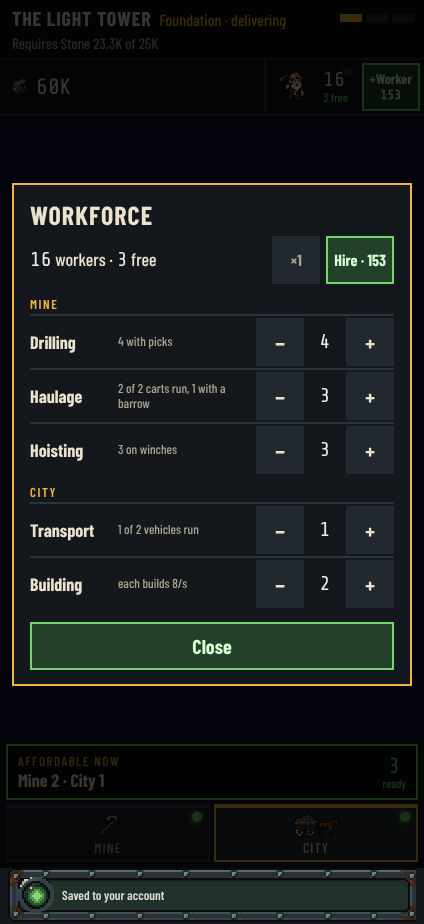
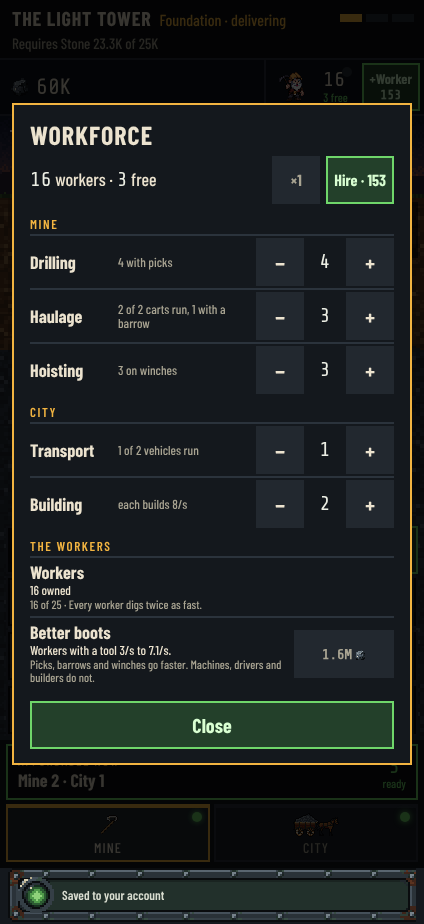
A stage's list: the docs and its audit shot
Claude-Session: https://claude.ai/code/session_011RgeWuqtnTRfrJx9irL8aB

diff --git a/docs/ui-audit.md b/docs/ui-audit.md
@@ -67,14 +67,15 @@ Bars used below:
 
 ## Slice 1's frame (dev preview)
 
-Slice 1's frame and its workforce (#659), the mine (#660) and the city (#662) run beside today's board, in a dev build with `?slice=1` (`npm run play -- --save slice-busy`). `npm run audit:ui` opens today's board and does not shoot them yet; the visual check's frame section (`scripts/visual/frame.mjs`) holds their bars at 424×924 and 424×830: the page never scrolls, every key is at least 48px, no word in the frame is cut, one hire key is in the top row on every site, and nothing says "hands" or "by hand". The shots are from `npm run play` on the `slice-busy` save.
+Slice 1's frame and its workforce (#659), the mine (#660) with a stage's list (#661) and the city (#662) run beside today's board, in a dev build with `?slice=1` (`npm run play -- --save slice-busy`). `npm run audit:ui` opens today's board and does not shoot them yet; the visual check's frame section (`scripts/visual/frame.mjs`) holds their bars at 424×924 and 424×830: the page never scrolls, every key is at least 48px, no word in the frame is cut, one hire key is in the top row on every site, and nothing says "hands" or "by hand". The shots are from `npm run play` on the `slice-busy` save.
 
-| Screen    | 424×924                                           | What it shows                                                                                                                                                                                                                                                                                                                                                                                                                                                                                                                                                                                                                                                                                                                                                                                                                                                                                                                                                                                                                                                                                       |
-| --------- | ------------------------------------------------- | --------------------------------------------------------------------------------------------------------------------------------------------------------------------------------------------------------------------------------------------------------------------------------------------------------------------------------------------------------------------------------------------------------------------------------------------------------------------------------------------------------------------------------------------------------------------------------------------------------------------------------------------------------------------------------------------------------------------------------------------------------------------------------------------------------------------------------------------------------------------------------------------------------------------------------------------------------------------------------------------------------------------------------------------------------------------------------------------------- |
-| Frame     | [shot](ui-audit/slice-frame-busy-424x924.png)     | The order strip (the Light Tower, its step and state, `Requires Stone … of 25K`, three pips), the top row (the stockpile, the count of workers with the free ones, the hire key with its price), the site's dark ground until its scene (#660, #662), Next (`Affordable now`, each site's count, `ready`) and the site bar with its lamps.                                                                                                                                                                                                                                                                                                                                                                                                                                                                                                                                                                                                                                                                                                                                                          |
-| Workforce | [shot](ui-audit/slice-workforce-busy-424x924.png) | A sheet over the frame: the workers and the free ones, the amount key and the second hire key, then the jobs by site, each with what its workers run and its count between − and +. A + with no free worker says `No free worker. Hire one, or take one off another job.`                                                                                                                                                                                                                                                                                                                                                                                                                                                                                                                                                                                                                                                                                                                                                                                                                           |
-| Mine      | [shot](ui-audit/slice-mine-busy-424x924.png)      | The mine (#660) in the frame's middle: the mountain cut open (the winding tower, the shaft, the Topsoil's gallery with hoisting at the shaft, haulage on the rail and drilling at the face, where rock piles, tubs run empty or queue, the cage waits and workers who wait stand with a z), the Topsoil's plate (`4 crews · all rock is hoisted as stone`), `Deeper strata: not yet surveyed. The city has to grow first.`, a key for each stage's machine (`+Cart · 60/s`, its price, `1 to run`) and no hire key, and a row for each stage: what it moves now of what it can move, who works with what as a sum that adds up, and its workers between − and +. The frame section also checks that the keys and rows sit under the gallery and the line under it.                                                                                                                                                                                                                                                                                                                                  |
-| City      | [shot](ui-audit/slice-city-busy-424x924.png)      | The city (#662) in the frame's middle: the transport plate (`1 driver`, `serving the city` or `idle: no order`, `2 horse wagons: 1 of 2 drivers 9/s`, the drivers between − and +, `+Wagon · 9/s` with its price and `1 to run`, and no trucks key), the night skyline with the Light Tower rising from its own picture behind scaffold, the stone on its site, the builders, the wagons on the road and one with no driver behind it, two `Vacant plot · unassigned`, and the project's card: its steps, `Stone … of 25K`, the order key (`Place order · the whole building`, or `Delivering · arriving 9/s · building 16/s · 3m · tap to hold`, or `Resume · on hold`), `2 builders ×8/s · on site … of 500` between − and +, and `On completion: night shift output 45%, up from 30%.` After the roof ([shot](ui-audit/slice-city-done-424x924.png)) the card says `The Light Tower is operational · the city is planning its next building` and has no order key. The frame section checks that the plate is on top, the tags over the card at the foot, and that the Light Tower fits between. |
+| Screen     | 424×924                                            | What it shows                                                                                                                                                                                                                                                                                                                                                                                                                                                                                                                                                                                                                                                                                                                                                                                                                                                                                                                                                                                                                                                                                       |
+| ---------- | -------------------------------------------------- | --------------------------------------------------------------------------------------------------------------------------------------------------------------------------------------------------------------------------------------------------------------------------------------------------------------------------------------------------------------------------------------------------------------------------------------------------------------------------------------------------------------------------------------------------------------------------------------------------------------------------------------------------------------------------------------------------------------------------------------------------------------------------------------------------------------------------------------------------------------------------------------------------------------------------------------------------------------------------------------------------------------------------------------------------------------------------------------------------- |
+| Frame      | [shot](ui-audit/slice-frame-busy-424x924.png)      | The order strip (the Light Tower, its step and state, `Requires Stone … of 25K`, three pips), the top row (the stockpile, the count of workers with the free ones, the hire key with its price), the site's dark ground until its scene (#660, #662), Next (`Affordable now`, each site's count, `ready`) and the site bar with its lamps.                                                                                                                                                                                                                                                                                                                                                                                                                                                                                                                                                                                                                                                                                                                                                          |
+| Workforce  | [shot](ui-audit/slice-workforce-busy-424x924.png)  | A sheet over the frame: the workers and the free ones, the amount key and the second hire key, then the jobs by site, each with what its workers run and its count between − and +. A + with no free worker says `No free worker. Hire one, or take one off another job.`                                                                                                                                                                                                                                                                                                                                                                                                                                                                                                                                                                                                                                                                                                                                                                                                                           |
+| Mine       | [shot](ui-audit/slice-mine-busy-424x924.png)       | The mine (#660) in the frame's middle: the mountain cut open (the winding tower, the shaft, the Topsoil's gallery with hoisting at the shaft, haulage on the rail and drilling at the face, where rock piles, tubs run empty or queue, the cage waits and workers who wait stand with a z), the Topsoil's plate (`4 crews · all rock is hoisted as stone`), `Deeper strata: not yet surveyed. The city has to grow first.`, a key for each stage's machine (`+Cart · 60/s`, its price, `1 to run`) and no hire key, and a row for each stage: what it moves now of what it can move, who works with what as a sum that adds up, and its workers between − and +. The frame section also checks that the keys and rows sit under the gallery and the line under it.                                                                                                                                                                                                                                                                                                                                  |
+| City       | [shot](ui-audit/slice-city-busy-424x924.png)       | The city (#662) in the frame's middle: the transport plate (`1 driver`, `serving the city` or `idle: no order`, `2 horse wagons: 1 of 2 drivers 9/s`, the drivers between − and +, `+Wagon · 9/s` with its price and `1 to run`, and no trucks key), the night skyline with the Light Tower rising from its own picture behind scaffold, the stone on its site, the builders, the wagons on the road and one with no driver behind it, two `Vacant plot · unassigned`, and the project's card: its steps, `Stone … of 25K`, the order key (`Place order · the whole building`, or `Delivering · arriving 9/s · building 16/s · 3m · tap to hold`, or `Resume · on hold`), `2 builders ×8/s · on site … of 500` between − and +, and `On completion: night shift output 45%, up from 30%.` After the roof ([shot](ui-audit/slice-city-done-424x924.png)) the card says `The Light Tower is operational · the city is planning its next building` and has no order key. The frame section checks that the plate is on top, the tags over the card at the foot, and that the Light Tower fits between. |
+| Stage list | [shot](ui-audit/slice-stage-haul-busy-424x924.png) | A sheet over the frame (#661), opened by a tap on a stage's row in the mine: the stage's name, its row in one sentence (`Moves 9/s of 123/s: 2 carts: 2 of 2 workers 120/s + 1 with a barrow 3/s.`) and the amount key, its machine (`Carts`, `2 owned`, `2 of 10 · Every cart hauls twice as fast.`) with its key in the mine keys' form, and its upgrades once they open (in the `slice-list` save: `Cart helpers`, `Carts 60/s to 65/s.`, `Each worker on haulage makes carts 1% faster.`, its price, or `Owned`). A stage's row in the mine has a green lamp while its list holds something he can afford. The workforce has `The workers` under the jobs: the workers with their next mark, and Better boots (`Workers with a tool 6/s to 14/s.`).                                                                                                                                                                                                                                                                                                                                             |
 
 ## On a PC
 

diff --git a/docs/ARCHITECTURE.md b/docs/ARCHITECTURE.md
@@ -800,6 +800,7 @@ Staffing (#140), the workers' name (#139), the field log (#141–#143), engineer
 - One workforce (#689; same spec, rule 2): `workforce` holds the jobs (`JOB_IDS`: drilling, haulage and hoisting, one for each stage of the line, driving and building) and `Mountain.jobs`. Every worker he owns (`owned.helper`) is on one job or free (`freeWorkers`); a hire is the worker's `buyTier` and starts free, and `placeWorker` / `freeWorker` move up to a count, for free: the free workers there are, or the ones on the job (#659, the amount key). The moves are `placeWorker` and `freeWorker` in `economy/actions`, each with its `count`, listed only in a fresh mine and with a count of one for the lab; nothing moves a worker for him, unattended or live. `lineWork` is the line under fresh, read by `effectiveRates`: each stage's workers run the machines that together move the most (`stageWork`, exact, so one more worker or machine never lowers a stage) and the rest work with a tool at three times a worker's speed; a machine takes `staff` workers from its tier row and stands idle without them (`helpersShort`), and the line is its slowest stage, with no spreading. Better boots and the worker marks lift only the tools. Free workers count toward the marks. Helping hands counts the workers on haulage (`synergyBonus`, `upgrades`). `fleetRate` (`transport`) counts only the vehicles with a driver, the ones that carry most first. Save: `jobs` in the game map, left out at 0; more on jobs than he owns reads `bad`.
 - Slice 1's frame, beside today's board (#659; slice 1 spec, "The frame, the same on every site", "The workforce", "What Next and the lamps count"): a second composition root, `frame-screen`, that `main` mounts instead of `mountMountainScreen` only in a dev build with `?slice=1`. That boot (`createAppServices`) holds the fresh mine's switch on for the page (`holdFactors`, beside `withFactors` in `economy/factors`) and plays a memory save as its own dev account (`dev-slice`, so neither a real save nor the other memory previews' `dev-dad` backup is touched); its play saves (`slice`, `slice-ordered`, `slice-stands`, `slice-busy`) seed that account's phone backup (`DEV_BACKUP_KEY`, `seedKey` in the browser harness). What it shows is worked out in pure views with unit tests: `frame-view` (the order strip: the building in hand, its step and state, and what the step requires with what is built in, or after the part's last roof what is operational; the stockpile, with no room until the stockyard; the workers and the free ones; the hire key, priced by `tierQuote` at the amount), `next-view` (each site's count of what he can afford now: the mine's machines of the line and the upgrades shown in its stages, the city's vehicles; the workforce's own count for the worker's upgrades; hiring is never counted; Next points at a building nobody has ordered, else counts, else says nothing is affordable on the sites and whether the line runs; a site's lamp) and `workforce-view` (every open job, grouped by site, with what its workers run and its count). `frame-screen` and `workforce-sheet` only paint them and dispatch moves: the hire key (`buyTier`, or `buyTiers` at ×10 and Max) in the top row of every site and in the sheet's head, and each job's − and + (`placeWorker` / `freeWorker` with the amount key's count). The amount key is Buys' own: `deviceAmount` and `paintAmountKey` (`buys-amount`) are the one amount on the device, and the hire key dispatches `tierBuyMove` (`economy/actions`), as Buys does. The frame shares `save-on-leave` and `createSaveLine` with the board. The scenes come with their own slivers (#660, #662); until then the middle is the site's dark ground.
 - The mine on slice 1's frame (#660; slice 1 spec, "The mine"): `mine-site` fills the frame's middle on the mine's site. Its pure view, `mine-view`, has the Topsoil's plate (`levelPlate`), a key for each stage's strongest machine in play and open (`machineKeys`, priced by `tierQuote` at the amount key's amount and bought with `tierBuyMove`), a row for each stage (`stageRows`: what the line moves now, what the stage can move, and who works with what as summands from `rowParts`, which reads `stageWork`; `printedParts` prints them so they add up to the printed total, and `crewTimer` in `rates` scales them under a crew timer) and the scene's state (`mineScene`: where rock piles, the share of tubs that leave full and the time they can unload, each stage's busy share and its machines that run or stand). A machine the stage has the workers for, left standing because tools move more, is the row's third state (`stands`). `mine-scene` draws the scene on a canvas in art px, on the board's `runBoardLoop`: the ground once a height, then the hoists on the surface (lit while they run, dim while they stand), the cage, the workers (those who wait take the slots away from their stage's machines), the tubs with the carts that do not run parked at the shaft end, the piles and the drill, about ten times a second, with the game's sprites. A key and Next's count share `tierOnSale` (`crew`), the rows read `stageMachines` (`workforce`), and the word tables (`plural`, `TOOL_WORDS`, `MACHINE_WORDS`) are in `screen-words`. The − and + on a row are the workforce sheet's own (`job-steps`: `stepper`, `paintSteps` and `listenSteps`, with the no-free-worker note).
+- A stage's list on slice 1's frame (#661; slice 1 spec, "What the prototype does not show", "What Next and the lamps count"): a tap on a stage's row in the mine (its words are a button; its − and + stay keys of their own) opens `stage-sheet`, a sheet in the workforce's form. Its pure view, `stage-list-view`, has the stage's row in one sentence (`stageRows`), each kind of machine of the stage in play with what he owns, its next ownership mark (`nextMark`) or the reached line, and its key (`machineKey` in `mine-view`, the one the mine's keys use, at the amount key's amount), and the upgrades shown (`upgradeShown`) whose synergy lifts a machine of the stage (`upgradeStage` in `upgrades`), each with its effect and second lines (`upgradeEffectLine`, `upgradeWhyLine`, `upgradeName` in `screen-words`, which has a fresh mine's words: Better boots lifts a worker with a tool, and Helping hands is Cart helpers, counting the workers on haulage) and a key that buys it (`buyUpgrade`) or "Owned". `workersList` is the workers' own part, which `workforce-sheet` shows under the jobs: the workers with their next mark, and Better boots. A stage's row has a lamp, green while `stageCount` (`next-view`) is not zero: its machines at ×1 and its upgrades he can afford. The mine's count on Next and the site bar is the sum of its stages' counts, so the mine's lamp is never green with no row lit. The play save `slice-list` opens the lists' upgrades and Better boots.
 - The city on slice 1's frame (#662; slice 1 spec, "The city", "While a part is the end of the game"): `city-site` fills the frame's middle on the city's site. Its pure view, `city-view`, has the transport plate (`transportPlate`: the drivers, what transport is doing, the fleet with the drivers it has of the drivers it takes and what those carry, and the drivers' − and +), a key for one more wagon (`vehicleKeys`, priced by `vehiclePrice` and bought with `buyVehicle`: one at a time, as no move buys several), the skyline's three plots (`plots`: the Light Tower's, and two vacant), the project's card (`projectCard`: its steps, a bar for each good with what is built in, read from the order strip's `requirements` in `frame-view`; the order key, which places, holds and resumes the order with what `orderNumbers` brings and builds and the step's time from `orderLimit`; the builders with what each builds in and what is on the site; the building's power; after the part's last roof the strip's line and no order key) and the scene's state (`cityScene`). `city-scene` draws the night skyline on a canvas in art px: the building in hand rises from its own picture, cut at (step + built in) ÷ 3 of its height behind code-drawn scaffold, and stands whole with its lamp lit once operational; a vacant plot has stakes and a rope; what is on the site lies beside it as a heap, the builders work there or wait with a "z", and the wagons drive to it as full as transport brings (the picture's heap of stones cut to that share), stand with a "z" with nothing to carry, or stand empty behind the road with no driver. `scene-paint` holds what both scenes draw with (the noise, rects, lines, glows, the night sky, sprite frames, the "z", heaps, the pictures' loader) and their canvas loop, `runScene`, on the board's `runBoardLoop`. The drivers' and builders' − and + are `job-steps`. The play saves `slice-structure` (the structure rising, a wagon with no driver) and `slice-done` (after the roof) show the city's other states.
 - The lab plays part 1 (#655; same spec, Lab): with `fresh.off=0` the strategy lab (`tools/strategy-lab.ts`) plays the player types in `lab/fresh-policies` instead of `lab/policies`, to the last building built so far (`runDone` in `lab/run`: the Light Tower's roof in part 1), and judges no guardrail. A fresh type is a plain dad (`freshPolicy` in `lab/plain`) with `FreshHabits` on its `Policy`: when he moves workers (`once` per building, or `idle`: whenever a job has nothing to do), whether he holds (`on-value` or `never`) and whether he weighs upgrades. `playSecond` hands a fresh type's live second to `playFresh` in `lab/fresh-dad`, which applies his plans until one changes nothing (at most `PLANS_A_SECOND`). `freshPlan`, in order: order the next building; place a free worker (an idle vehicle, a builder, else the slowest stage); for the mover, send drivers and builders with nothing to do to the mine and back, and a stage's spare worker to the slowest; buy the order's fix (`orderLimit`: a wagon with its driver and the builders to keep pace, or a builder) when it pays for itself, saving for it unless the order drains the mine; buy the raise that pays back soonest (`lineRaise`: the slowest stage's best buy per stone, with its workers hired onto it, until the line rises; upgrades too for the optimizer); and hold while that raise pays back sooner than the building takes and the order takes more than half of what the mine makes (`drainsTheMine`, `STARVED_SHARE`), weighed on the mine as it would stand delivering so the mover's moves never undo it. `lab/fresh-view` reads each sample (`FreshView`: the order's limit, a full site, `starved`, the idle workers and the machines tools beat) and the taps that hire and move workers (`workerTaps`, with the amount key on ×10 then ×1), which the sitting log adds up. The report-only measures are `transportLimit`, `siteFull` (both over the samples with an order standing), `starved`, `idleWorkers`, `idleMachines` and `workerMoves`; `narrowRun` reads the placed workers' stages (`narrowAt` in `lab/line-view`).
 - `engineers` (rules layer, pure): `Engineer = { name, rank: 0 | 1 | 2, trips, post: TierId | "camp" }`. In memory an engineer on a trip keeps the post they left, and `onTrip(mountain, name)` is the one test for "away" (#415). `onDuty` gives the crew as the save and the screens see it, with post `"tunnel"` for the ones away; `promote(mountain)`, `station(mountain, i, post)`, `rankOf`, `addTrip`. `promote` takes no `now`: the price does not depend on the clock. Save: `engineers?: Engineer[]` (max 5, names Ada, Nils, Ruth, Otto, Mae). The first engineer arrives with the first borer, already tending it, without spending a worker. The save reader refuses an unknown name, a duplicate, a sixth hand or a post it does not know as `newer` (#558); the rules leave the game map to it. Built (#144). Buying a machine does not call `tendBestTier` (#145); the sheet's post sticks. The pacing sim still calls it.
